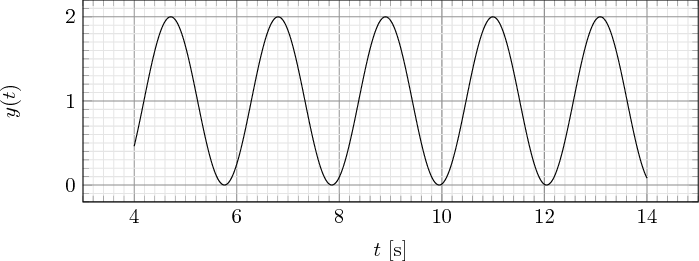
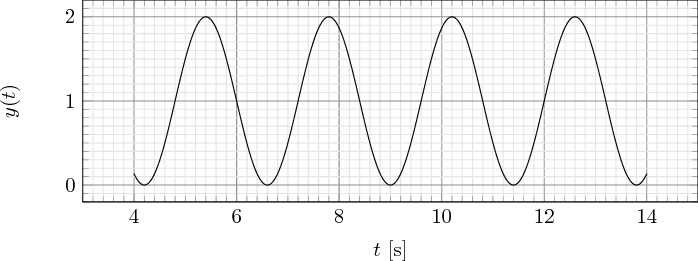
New image

diff --git a/images/ultimate-period-exercise.tex b/images/ultimate-period-exercise.tex
@@ -2,9 +2,11 @@
 
 \usepackage{tikz,pgf,pgfplots}
 
-\def\ww{3}
 
 \begin{document}
+
+\pgfmathsetmacro{\TT}{2.4}
+\pgfmathsetmacro{\ww}{2*pi/\TT}
 
 \begin{tikzpicture}
 \begin{axis}[
